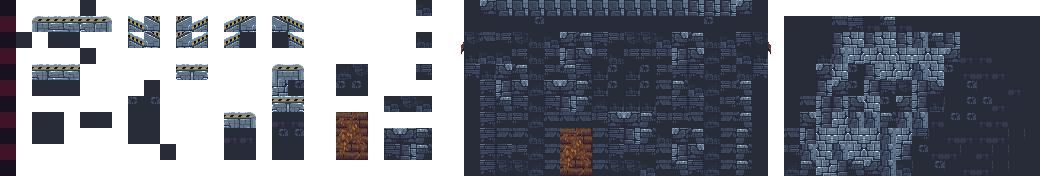
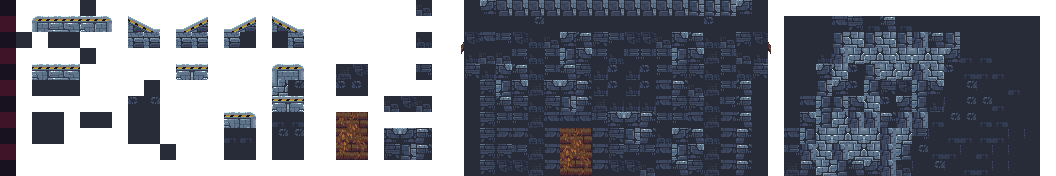
Add files via upload

Changed region(s): [[0.0938, 0.0852, 0.3125, 0.2841]]

diff --git a/LEIAME.md b/LEIAME.md
@@ -60,6 +60,30 @@ servidor local para testar:
   no `data.js` (é a mesma chave que o editor mexe). Ver nota de licença abaixo.
 - Tela de título, textos de controle e nome do projeto atualizados.
 
+## Rampas: arte gerada a partir da colisão
+
+As rampas não usam um tile de diagonal pronto. Cada célula do nível tem
+inclinação própria, descrita no seu polígono de colisão — uma sobe 8px em 16,
+outra desce 6px em 12. Reaproveitar um único diagonal genérico faz as células
+não emendarem e a rampa vira degrau.
+
+Então `fix_slopes.py` **desenha** cada tile de rampa: rasteriza o polígono,
+usa a superfície real como linha de arte, e aplica faixa de perigo em cima e
+pedra embaixo — ambas amostradas do próprio tileset da Foozle, para o material
+continuar o mesmo. A faixa preta/âmbar tem período 8px e os tiles têm 16px,
+então a fase casa sozinha entre células vizinhas.
+
+Dois casos que precisaram de tratamento:
+
+- **Tiles enterrados.** Numa rampa de duas células de altura, a de baixo
+  também tem topo inclinado. Se ganhar faixa de perigo, aparece uma listra
+  amarela flutuando dentro da rocha. Mede-se no mapa a frequência de sólido
+  logo acima; passando de 50%, o tile vira rocha lisa.
+- **Polígonos fora da célula.** Quatro tiles trazem a colisão deslocada para
+  x de 16 a 32 — ou seja, ela mora na célula vizinha da direita. Não dá para
+  extrair a linha da superfície dali, e rasterizar gera lixo. Esses são
+  detectados e tratados à parte.
+
 ## Armadilha do createObject: zOrder
 
 Objetos criados em tempo de execução nascem com **zOrder 0**, e o `LevelMap`
